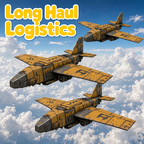
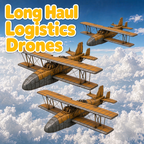
Update version to 1.0.2

diff --git a/README.md b/README.md
@@ -1,6 +1,6 @@
-# WePlay: Long Haul Logistics
+# WePlay: Long Haul Logistics Drones
 
-**A logistics network with no coverage map.** Swarms of cargo planes link your outposts to your main base, at any distance. It's an alternative to trains for long distance transportation.
+**A logistics network with no coverage map.** Swarms of cargo airplanes link your outposts to your main base, at any distance. It's an alternative to trains for long distance transportation.
 
 - **Mod portal:** https://mods.factorio.com/mod/WePlayLongHaulLogistics
 - **Factorio:** 2.1 (base game; Space Age optional)
@@ -12,16 +12,16 @@
 
 ### What it does
 
-Put a **launch pad** at your main base and another at each outpost. Set requests on the outpost pad like you would on a buffer chest. Anything the outpost's own robots can't supply gets **flown in by cargo drones** from another pad. The cargo lands in the pad's inventory, where local robots can use it for construction, requester chests and personal logistics.
+Put a **launch pad** at your main base and another at each outpost. Set requests on the outpost pad like you would on a buffer chest. Anything the outpost's own robots can't supply gets **flown in by cargo airplanes** from another pad. The cargo lands in the pad's inventory, where local robots can use it for construction, requester chests and personal logistics.
 
-Drones that pile up at outposts fly themselves home to the nearest hub, so the fleet keeps cycling without any babysitting.
+Airplanes that pile up at outposts fly themselves home to the nearest hub, so the fleet keeps cycling without any babysitting.
 
 ### Getting started
 
 1. Research **Long haul logistics** (after Robotics, Electric energy accumulators and Concrete).
 2. Build a **launch pad** inside your main base's robot network, power it, and put some **long haul drones** in it.
 3. Build a **launch pad** at your outpost, power it, and add requests in its logistics section.
-4. Watch the planes take off. ✈
+4. Watch the airplanes take off. ✈
 
 ### Features
 
@@ -30,8 +30,8 @@ Drones that pile up at outposts fly themselves home to the nearest hub, so the f
 - **Fair dispatch:** drones are shared round-robin across every pad that needs something, with a **0–255 priority** per pad
 - **Spread loads / Fill drones** switch per pad
 - **Weight-based payload:** 100 kg per drone, 250 kg and 500 kg with research
-- **Runway takeoffs, wide banking turns and lined-up landings,** with sounds
-- **Map view:** drones show on the map as dots colored by trip type (map setting, on by default)
+- **Runway takeoffs, wide banking turns and lined-up landings,** with sounds, and drones visibly roll into their turns
+- **Map view:** drones can show on the map as dots colored by trip type (map setting, off by default)
 - **Power:** 500 kW idle, 1 MW during launches
 - **Circuit network:** set requests from combinators, and read drone statistics on any signals you choose
 - **Multi-surface friendly:** works with Space Age, Space Exploration and other mods with multiple surfaces
@@ -49,7 +49,7 @@ Drones that pile up at outposts fly themselves home to the nearest hub, so the f
 - **Hubs** are pads that supplied another pad in the last 5 minutes. They keep all their drones. Every other pad keeps 2 for return trips and sends the rest home.
 - **Point outpost runways toward your main base** for the quickest approach.
 - **Keep a hub stocked automatically:** wire the pad to an inserter from your drone assembler and enable it when *available drones < 10*.
-- **Fancy flight paths** can be turned off in *Settings → Mod settings → Map* for straight pad-to-pad flights. **Show drones on the map** is there too.
+- **Fancy flight paths** can be turned off in *Settings → Mod settings → Map* for straight pad-to-pad flights. **Show drones on the map** and **Banking turns** are there too.
 
 ### Known limitations
 
@@ -139,6 +139,7 @@ Sprites are rendered in Blender and packed with `tools/pack_sprites.py`, which w
 | `CLIMB_OUT` / `APPROACH` | 15 / 15 tiles | Straight runs after takeoff and before landing |
 | `POWER_IDLE` / `POWER_LAUNCH` | 500 kW / 1 MW | Pad power draw |
 | `POWERED_EMPTY_ONLY` | false | Set to true to require power for empty flights too |
+| `BANK_SQUEEZE` / `BANK_SLIDE` / `BANK_EASE` / `BANK_TILT` | 0.35 / 0.3 / 0.06 / 0.025 | How much the wings narrow, how far the plane slides into the turn, how fast it rolls, and how far the sprite tilts so the lowered wing drops |
 
 ### Contributing
 
